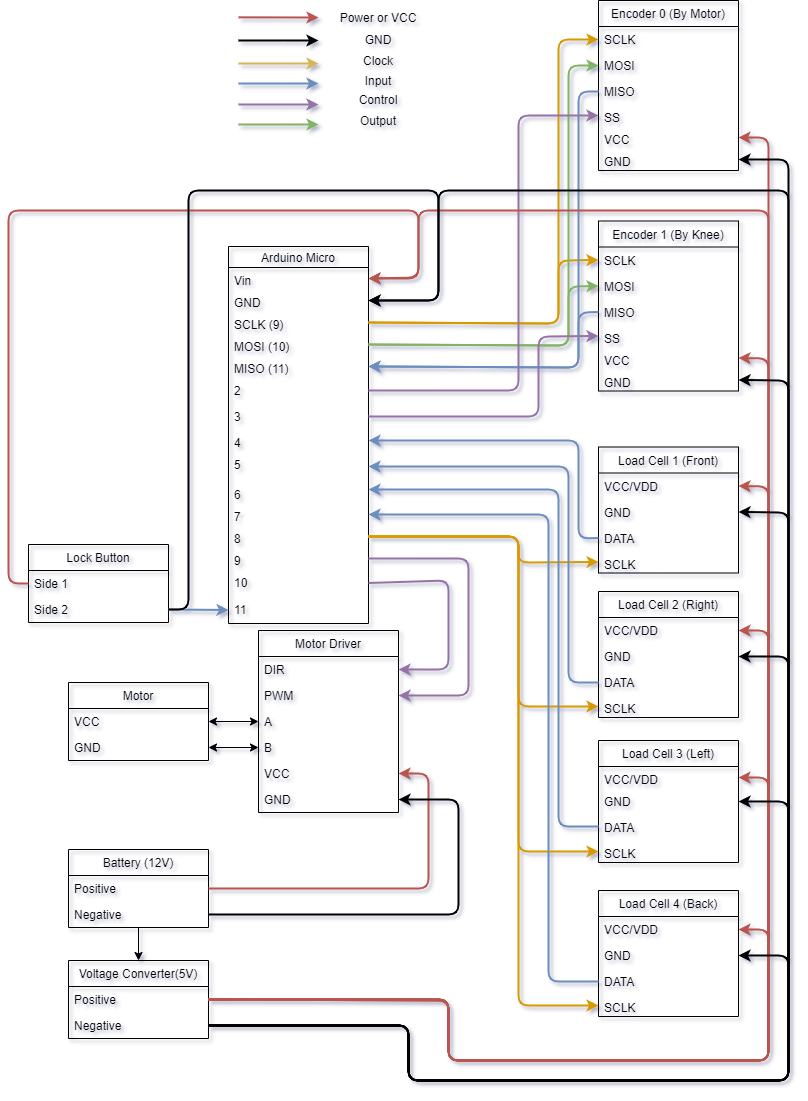
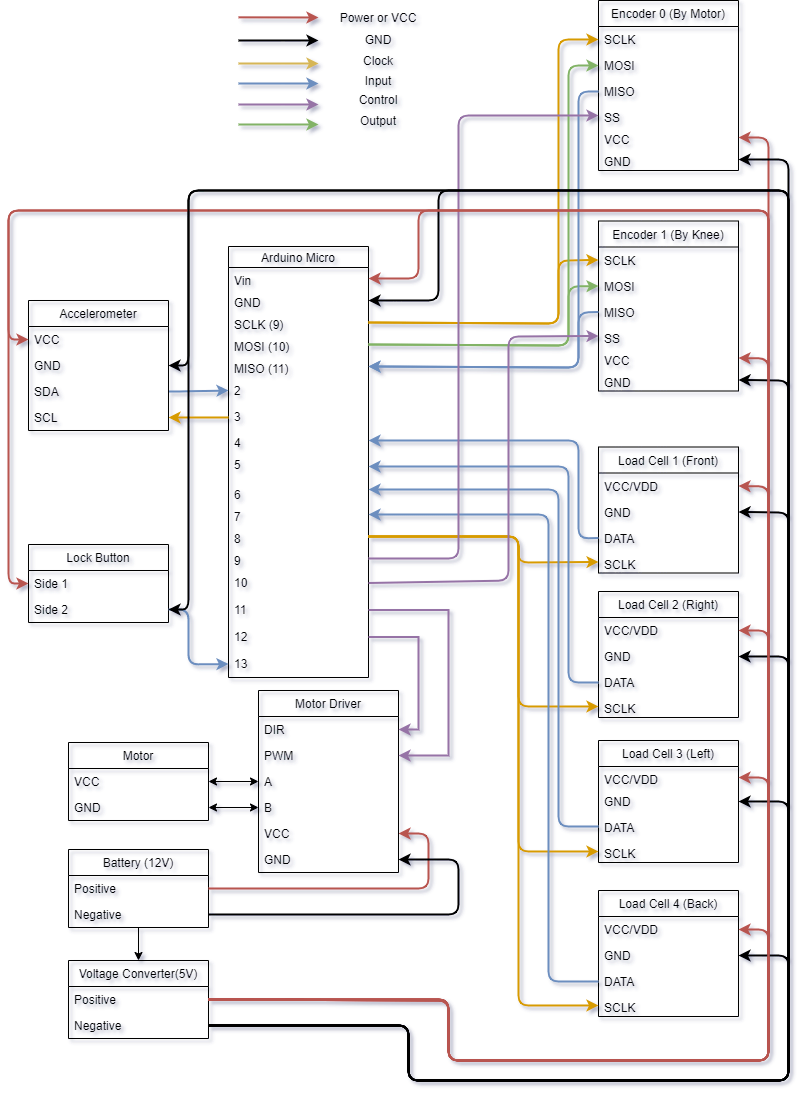
updated hardware schematics, updated base code to read all sensors correctly and with speed hmmmmmmmmmmmmmmmmmmmmmmmmmmmmmmmmmm

diff --git a/Master Sketch/Master/Motor_functions.h b/Master Sketch/Master/Motor_functions.h
@@ -24,7 +24,7 @@ int init_ang = 0;                       // global variable for initial angle at 
 float a;                                // part of quadratic used for determining speed of motor (initialized at beginning of movement)
 float b;                                // part of quadratic used for determining speed of motor (initialized at beginning of movement)
 float c;                                // part of quadratic used for determining speed of motor (initialized at beginning of movement)
-bool updated_sensors_motor = false;     // boolean for determining whether the sensors have been updated since last call of motor function
+volatile bool updated_sensors_motor = false;     // boolean for determining whether the sensors have been updated since last call of motor function
 double acc_const = ACC_CONST;           // constant used for determining 3rd point in quadratic equation used for determining speed
 double ramp_down_const = RMP_DWN_CONST; // constant used for determining how fast the motor ramps down when reversing from previous movement
 

diff --git a/Master Sketch/Master/Encoder_functions.h b/Master Sketch/Master/Encoder_functions.h
@@ -18,8 +18,10 @@
 #define RES14           14
 
 /* SPI pins */
-#define ENC_0            2 // encoder at knee
-#define ENC_1            3 // encoder at the CAM
+//#define ENC_0            2 // encoder at knee
+//#define ENC_1            3 // encoder at the CAM
+#define ENC_0            9 // encoder at knee
+#define ENC_1            10 // encoder at the CAM
 #define SPI_MOSI        10
 #define SPI_MISO        11
 #define SPI_SCLK        9

diff --git a/Master Sketch/Master/Sensor_Interrupt.h b/Master Sketch/Master/Sensor_Interrupt.h
@@ -1,6 +1,8 @@
 //read_vel = false;
+volatile bool i2c_flag = false;
 
 // Initializes the interrupt for timer 1
 void Init_Interrupt(void);
 // Reads and updates all sensor variables
 void Read_Sensors(void);
+void Update_I2C(void);

diff --git a/Master Sketch/Master/HX711.cpp b/Master Sketch/Master/HX711.cpp
@@ -102,7 +102,7 @@ void HX711::set_gain(byte gain) {
 long HX711::read() {
 
 	// Wait for the chip to become ready.
-	wait_ready();
+//	wait_ready();
 
 	// Define structures for reading data into.
 	unsigned long value = 0;
